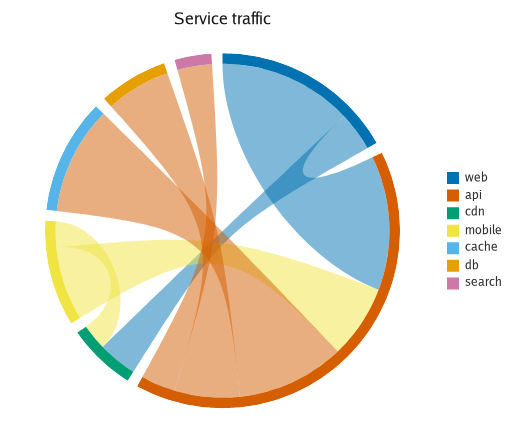
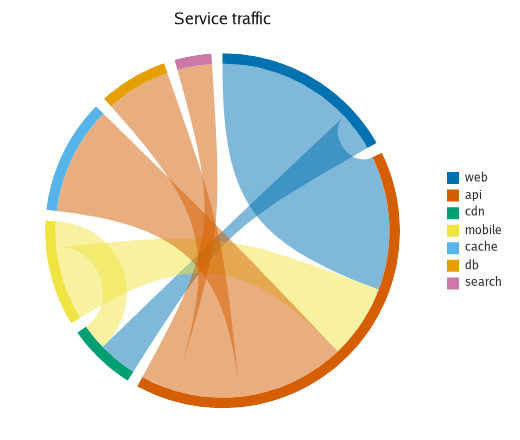
fix(geom): an arc's ribbon keeps its thickness over its apex
Both boundaries of a ribbon were pulled towards the hub by one number,
and a cubic whose two control points sit at the same height peaks at the
same height whatever its width — so the two peaked together and the band
closed to nothing at the top. An arc diagram drew as an outline rather
than as bands.

Each crossing is pulled by its own reach instead. The outer boundary is
wider than the inner one by exactly the two spans it joins, so it lifts
further, by about the width of the band — which is the thickness the
band keeps over the top.

Under a polar coord the two come out nearly equal again, and not by
accident: a crossing of s of the circle and one of 1 - s subtend the
same chord, because 2R*sin(pi*s) = 2R*sin(pi*(1-s)). So a chord
diagram's ribbons stay symmetric about the diameter between their arcs,
which is what they have to be. This was the reason the per-crossing pull
was backed out the first time; the chord diagram was actually being
mangled by edgeAlong handing coord.Edge mapped values instead of device
points, which is fixed, and the diagnosis was wrong.

TestAnArcsRibbonHasThicknessAtItsApex is the test that would have caught
it: it evaluates each boundary cubic at its midpoint and reports 0.00
apart against the old code. Nothing about the IR said anything was
wrong — the shape was there, one subpath, filled — so a count-the-shapes
test could not have.

The gallery gains the arc diagram, which was the one of the six charts
[…]

diff --git a/geom/arc.go b/geom/arc.go
@@ -171,26 +171,30 @@ func (g *arcGeom) ribbons(b ir.Backend, sc *scratch, cd coord.Coord, f Frame, in
 // read: a crossing that reaches right across the plot arcs the whole way over,
 // and one between neighbours barely leaves the rail.
 //
-// The pull is one number for the whole ribbon rather than one per crossing, and
-// that is what keeps the ribbon a ribbon: two boundaries pulled by different
-// amounts converge, and a band that narrows to nothing halfway along says the
-// quantity did too.
+// Each crossing is pulled by its own reach rather than by the ribbon's, and
+// that is what keeps the band a band. A cubic whose two control points sit at
+// the same height peaks at the same height whatever its width, so two
+// boundaries pulled by one number peak together and the ribbon closes to
+// nothing at its apex. The outer boundary is wider than the inner one by
+// exactly the two spans it joins, so pulling each by its own reach lifts it
+// further — by about the width of the band, which is the thickness the band
+// keeps over the top.
 //
-// It is measured in device space, as the distance between the two spans'
-// middles, because that is the one measure that means the same thing under both
-// coords: under a Cartesian one it is a width against a height, and under a
-// polar one it is a chord against a diameter — so two nodes on opposite sides
-// of a disc pull all the way to the centre and two beside each other hug the
-// rim. One path, two pictures, and the coord decides which, which is the whole
-// reason the layout is in the unit square.
+// Under a polar coord the two come out nearly equal again, and not by
+// accident: a crossing of s of the circle and one of 1 − s subtend the same
+// chord, because 2R·sin(πs) = 2R·sin(π(1−s)). So a ribbon between two arcs is
+// still symmetric about the diameter between them, which is what a chord
+// diagram has to be, while an arc diagram gets the asymmetry it needs. One
+// path, two pictures, and the coord decides which — which is the whole reason
+// the layout is in the unit square.
 func chord(p *ir.Path, cd coord.Coord, x, y func(float64) float32, r stat.Ribbon, inner, hub, reach float64) {
 	at := func(v, h float64) ir.Point { return cd.Point(x(v), y(h)) }
-	pull := 1.0
-	if reach > 0 {
-		pull = min(1, separation(cd, x, y, r, inner)/reach)
-	}
 	across := func(from, to float64) {
 		a, b := at(from, inner), at(to, inner)
+		pull := 1.0
+		if reach > 0 {
+			pull = min(1, float64(gap(a, b))/reach)
+		}
 		c1 := between(a, at(from, hub), pull)
 		c2 := between(b, at(to, hub), pull)
 		p.CubicTo(c1.X, c1.Y, c2.X, c2.Y, b.X, b.Y)
@@ -205,16 +209,8 @@ func chord(p *ir.Path, cd coord.Coord, x, y func(float64) float32, r stat.Ribbon
 	p.Close()
 }
 
-// separation is how far apart a ribbon's two ends are on the rail, in device
-// units, measured between the middles of the two spans.
-func separation(cd coord.Coord, x, y func(float64) float32, r stat.Ribbon, inner float64) float64 {
-	a := cd.Point(x((r.Src.Lo+r.Src.Hi)/2), y(inner))
-	b := cd.Point(x((r.Dst.Lo+r.Dst.Hi)/2), y(inner))
-	return float64(gap(a, b))
-}
-
-// reach is what a ribbon's separation is measured against: the furthest apart
-// any two of this layer's ends are, but never more than the width of the axis
+// reach is what a crossing's span is measured against: the furthest apart any
+// two of this layer's ends are, but never more than the width of the axis
 // itself.
 //
 // The first half is what makes an arc diagram use the room it is given — the
@@ -223,14 +219,16 @@ func separation(cd coord.Coord, x, y func(float64) float32, r stat.Ribbon, inner
 // arc into a ripple. Under a polar coord the axis is the diameter, so two nodes
 // on opposite sides of the disc still pull all the way to the centre.
 func (g *arcGeom) reach(cd coord.Coord, x, y func(float64) float32, inner, hub float64) float64 {
+	at := func(v, h float64) ir.Point { return cd.Point(x(v), y(h)) }
 	widest := 0.0
 	for _, r := range g.lay.Ribbons {
 		if !(r.Src.Hi > r.Src.Lo) {
 			continue
 		}
-		widest = math.Max(widest, separation(cd, x, y, r, inner))
+		widest = math.Max(widest, float64(gap(at(r.Src.Hi, inner), at(r.Dst.Lo, inner))))
+		widest = math.Max(widest, float64(gap(at(r.Dst.Hi, inner), at(r.Src.Lo, inner))))
 	}
-	depth := float64(gap(cd.Point(x(0), y(inner)), cd.Point(x(0), y(hub))))
+	depth := float64(gap(at(0, inner), at(0, hub)))
 	return math.Min(widest, 2*depth)
 }
 

diff --git a/geom/relational_test.go b/geom/relational_test.go
@@ -522,3 +522,65 @@ func TestARelationalLayerRedrawnTwiceDrawsTheSameThing(t *testing.T) {
 		}
 	}
 }
+
+// A ribbon is a band, and a band has thickness all the way over its apex.
+//
+// This is the test for the mistake that is easy to make here and invisible in
+// every count-the-shapes test above: a cubic whose two control points sit at
+// the same height peaks at the same height whatever its width, so two
+// boundaries pulled towards the hub by one number peak together and the ribbon
+// closes to nothing at the top. It draws as an outline rather than a band, and
+// nothing about the IR says so — the shape is still there, still one subpath,
+// still filled.
+func TestAnArcsRibbonHasThicknessAtItsApex(t *testing.T) {
+	src := data.NewTable().
+		String("from", []string{"a"}).
+		String("to", []string{"b"}).
+		Float64("v", []float64{1})
+	g := geom.Arc(src, geom.From("from"), geom.To("to"), geom.Value("v"))
+	rec, f := relFrame(t, g, nil, 400, 300)
+	if err := g.Build(rec, f); err != nil {
+		t.Fatal(err)
+	}
+
+	// The ribbon is the shape with curves in it; the two rails are rectangles.
+	var ribbon *ir.Path
+	for _, c := range rec.Filter("FillPath") {
+		if curves([]irtest.Call{c}) > 0 {
+			ribbon = c.Path
+			break
+		}
+	}
+	if ribbon == nil {
+		t.Fatal("no curved shape was drawn; a ribbon is a pair of cubics")
+	}
+
+	tops := apexes(ribbon)
+	if len(tops) != 2 {
+		t.Fatalf("the ribbon has %d crossings, want two", len(tops))
+	}
+	// Y is flipped under Cartesian, so higher on screen is a smaller number.
+	thickness := math.Abs(float64(tops[0] - tops[1]))
+	if thickness < 4 {
+		t.Errorf("the ribbon's two boundaries peak %.2f apart in a 300-unit panel: "+
+			"the band closes to nothing over its apex", thickness)
+	}
+}
+
+// apexes is the y of the midpoint of each cubic in a path, which for a
+// boundary pulled symmetrically towards the hub is where it peaks. A cubic's
+// midpoint is (P0 + 3·P1 + 3·P2 + P3) / 8.
+func apexes(p *ir.Path) []float32 {
+	var out []float32
+	var at ir.Point
+	p.Walk(func(op ir.PathOp, pts []ir.Point) {
+		switch op {
+		case ir.OpMoveTo, ir.OpLineTo:
+			at = pts[len(pts)-1]
+		case ir.OpCubicTo:
+			out = append(out, (at.Y+3*pts[0].Y+3*pts[1].Y+pts[2].Y)/8)
+			at = pts[2]
+		}
+	})
+	return out
+}

diff --git a/backend/gg/cmd/gallery/main.go b/backend/gg/cmd/gallery/main.go
@@ -856,6 +856,21 @@ func figures() []figure {
 			},
 		},
 		{
+			// The Cartesian half of the pair below, and the figure that would
+			// have shown the ribbons closing to nothing over their apexes if it
+			// had existed when they did. Each band is as thick as the traffic
+			// it carries and arcs as high as it reaches.
+			name: "arc", width: 620, high: 400, title: "Service traffic",
+			theme: bareLayout(theme.Light),
+			build: func(p *refract.Plot) {
+				p.X(scale.Linear())
+				p.Y(scale.Linear())
+				p.Add(geom.Arc(requestFlow(),
+					geom.From("from"), geom.To("to"), geom.Value("rps"),
+					geom.Padding(0.01)))
+			},
+		},
+		{
 			// And the second recipe. This is an arc diagram with its rail moved
 			// to the rim: geom.Baseline is the whole difference, and the coord
 			// does the rest.

diff --git a/README.md b/README.md
@@ -158,7 +158,8 @@ picture here cannot drift away from the code that produced it.
 | ![Mean latency per service with a 95 % interval drawn over each bar](docs/images/errorbars.png) | ![Revenue as bars against a left axis and margin as a percentage line against a right one](docs/images/twoaxes.png) |
 | ![An oven temperature curve read against elapsed minutes along the bottom and cycle number along the top](docs/images/twoextents.png) | ![A patch antenna's reflection swept across its band, on a Smith chart](docs/images/smith.png) |
 | ![Disk usage by directory as a treemap, one rectangle per file sized by its share](docs/images/treemap.png) | ![The same directory tree as a sunburst, the root at the middle and the files at the rim](docs/images/sunburst.png) |
-| ![Requests per second through a service, drawn as a sankey diagram](docs/images/sankey.png) | ![The same traffic as a chord diagram, each service an arc and each route a ribbon](docs/images/chord.png) |
+| ![Requests per second through a service, drawn as a sankey diagram](docs/images/sankey.png) | ![The same traffic as an arc diagram, each service a segment of the rail and each route a band arcing over it](docs/images/arc.png) |
+| ![The same traffic again as a chord diagram, each service an arc and each route a ribbon crossing the disc](docs/images/chord.png) | |
 
 ## What it does
 
@@ -542,9 +543,18 @@ p.Add(geom.Sankey(src, geom.From("from"), geom.To("to"), geom.Value("rps")))
 ![Requests per second through a service, as a sankey diagram](docs/images/sankey.png)
 
 And the same trick again: `geom.Arc` puts the nodes on a rail with the ribbons
-rising off it, which is an arc diagram. Move the rail to the rim and wrap it
-round a circle, and the ribbons cross the middle — a **chord diagram**, from the
-same layer with one option and one coord different.
+rising off it, which is an arc diagram. Each band is as thick as what it
+carries and arcs as high as it reaches, so the height reads as distance:
+
+```go
+p.Add(geom.Arc(src, geom.From("from"), geom.To("to"), geom.Value("rps")))
+```
+
+![The same traffic as an arc diagram](docs/images/arc.png)
+
+Move the rail to the rim and wrap it round a circle, and the ribbons cross the
+middle — a **chord diagram**, from the same layer with one option and one coord
+different.
 
 ```go
 p := refract.New(refract.Size(520, 460), refract.Theme(bare),
